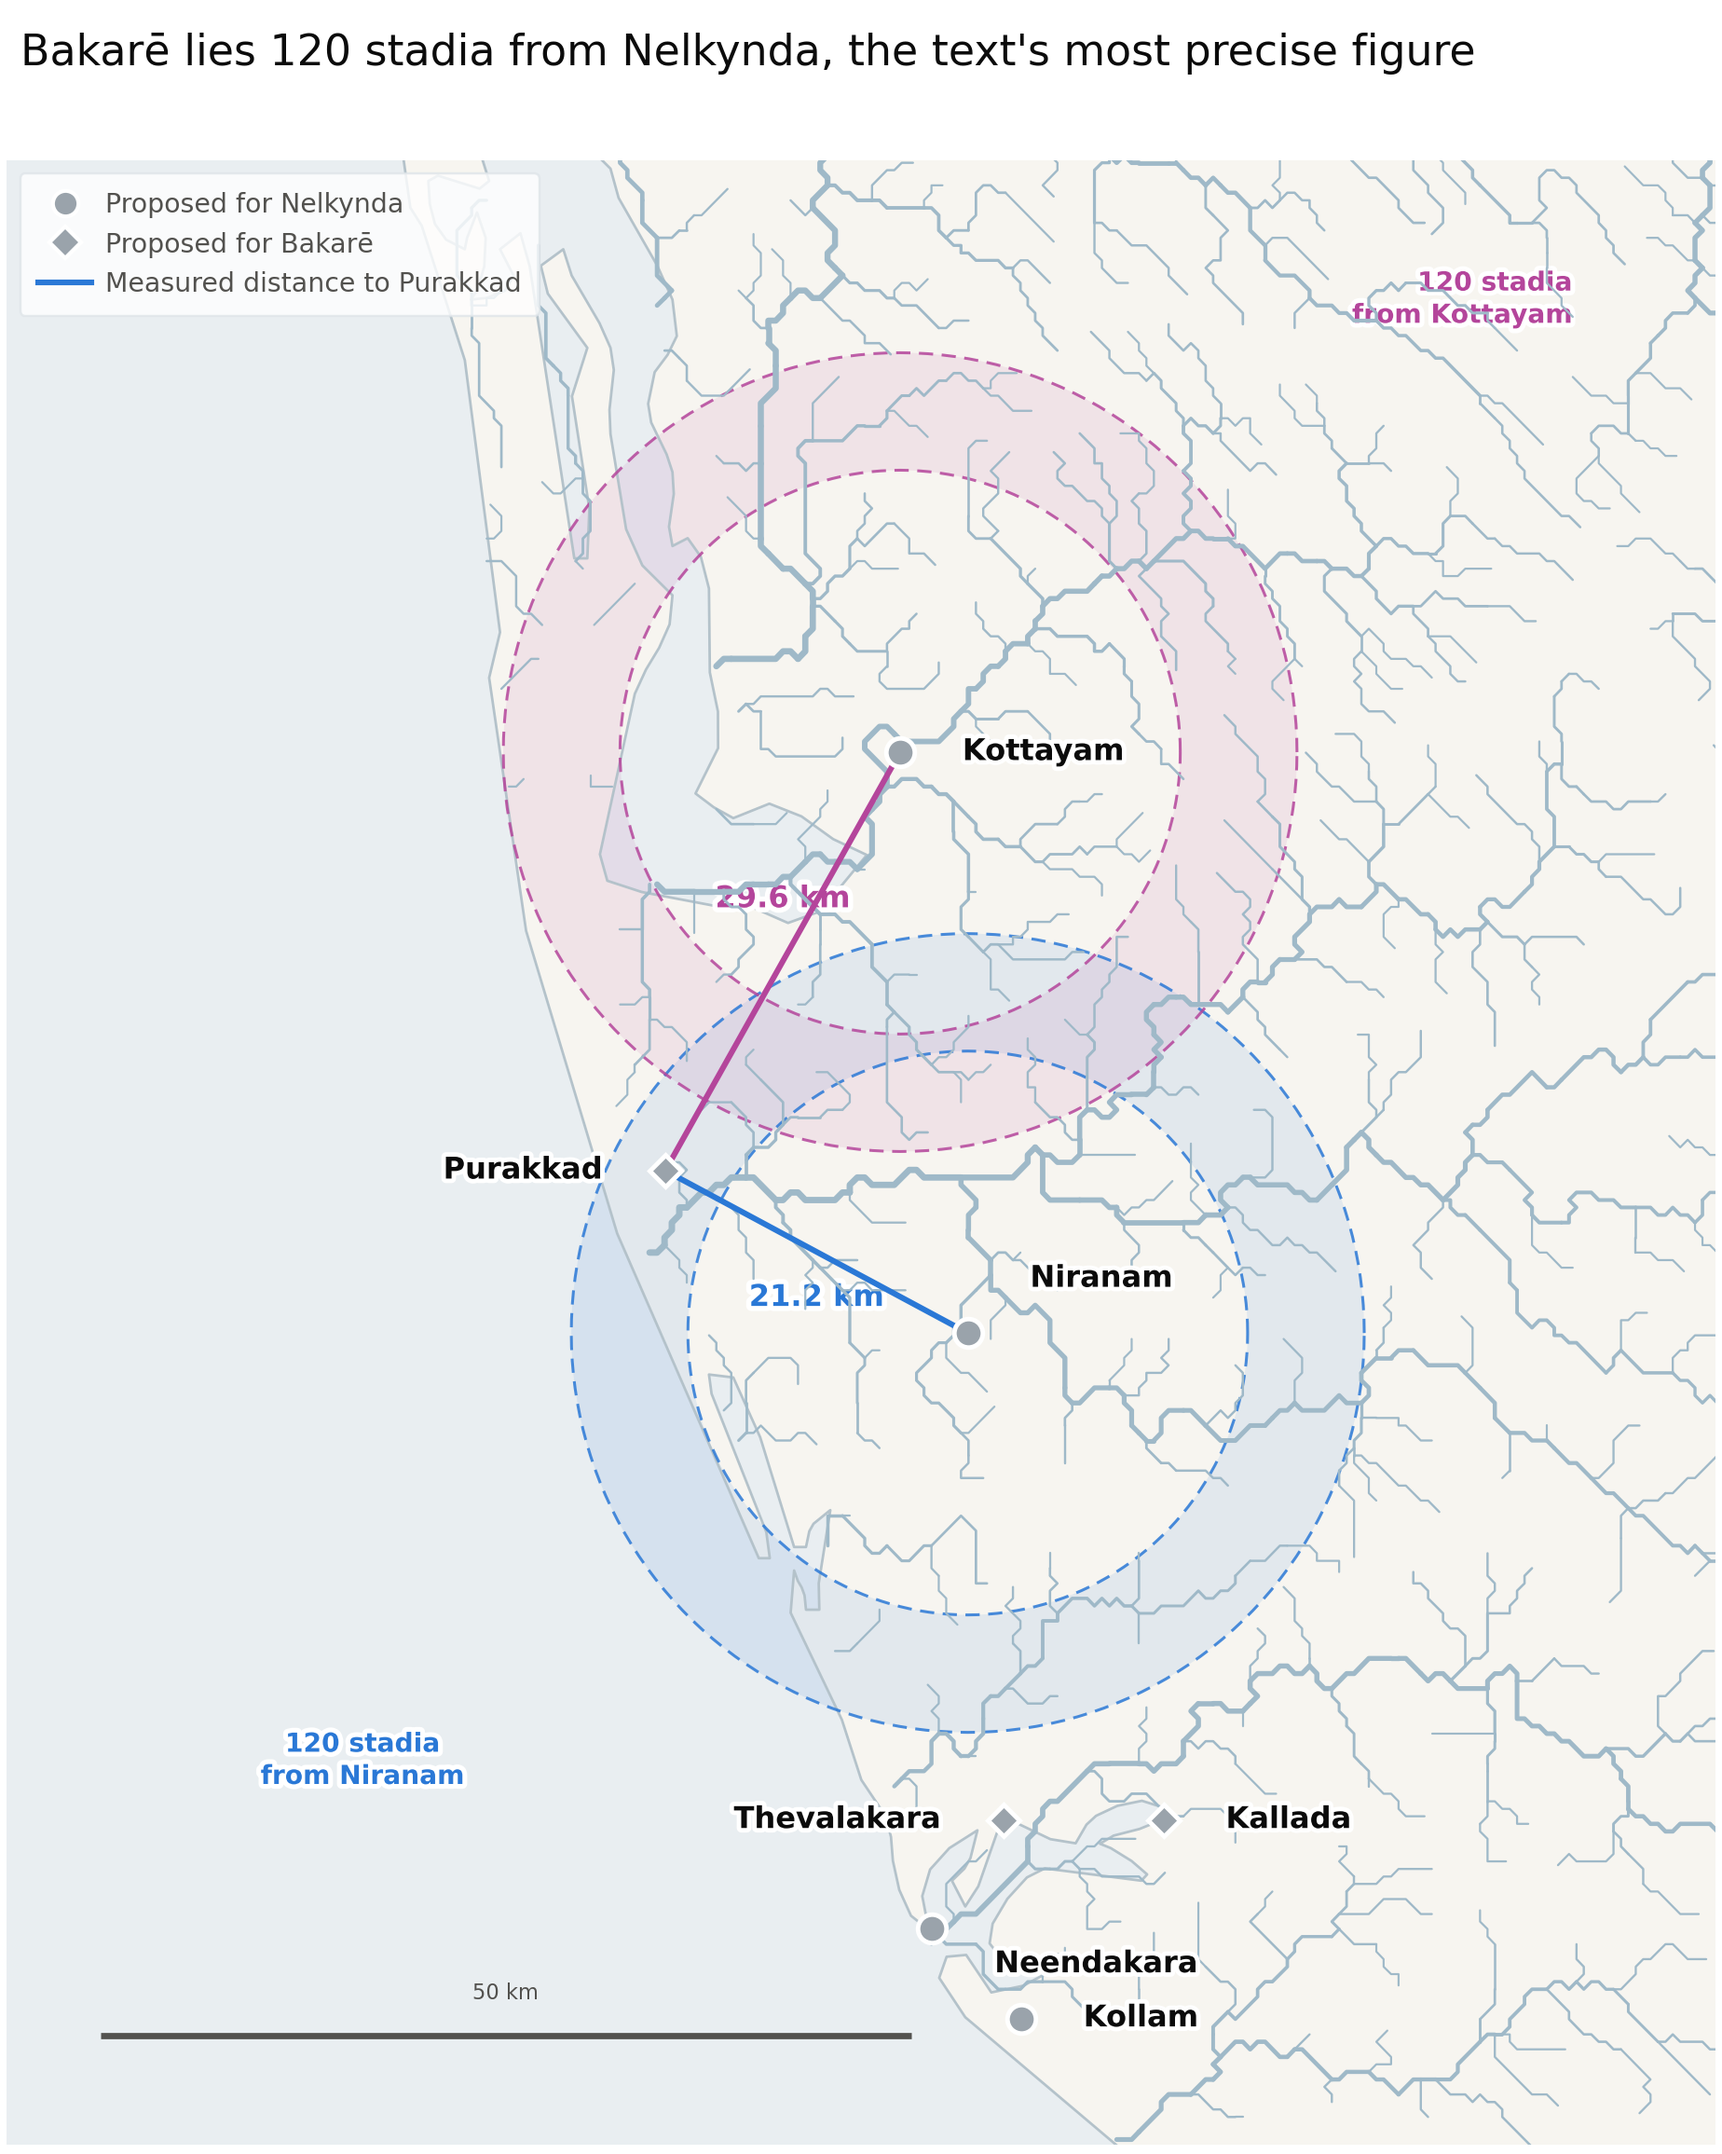
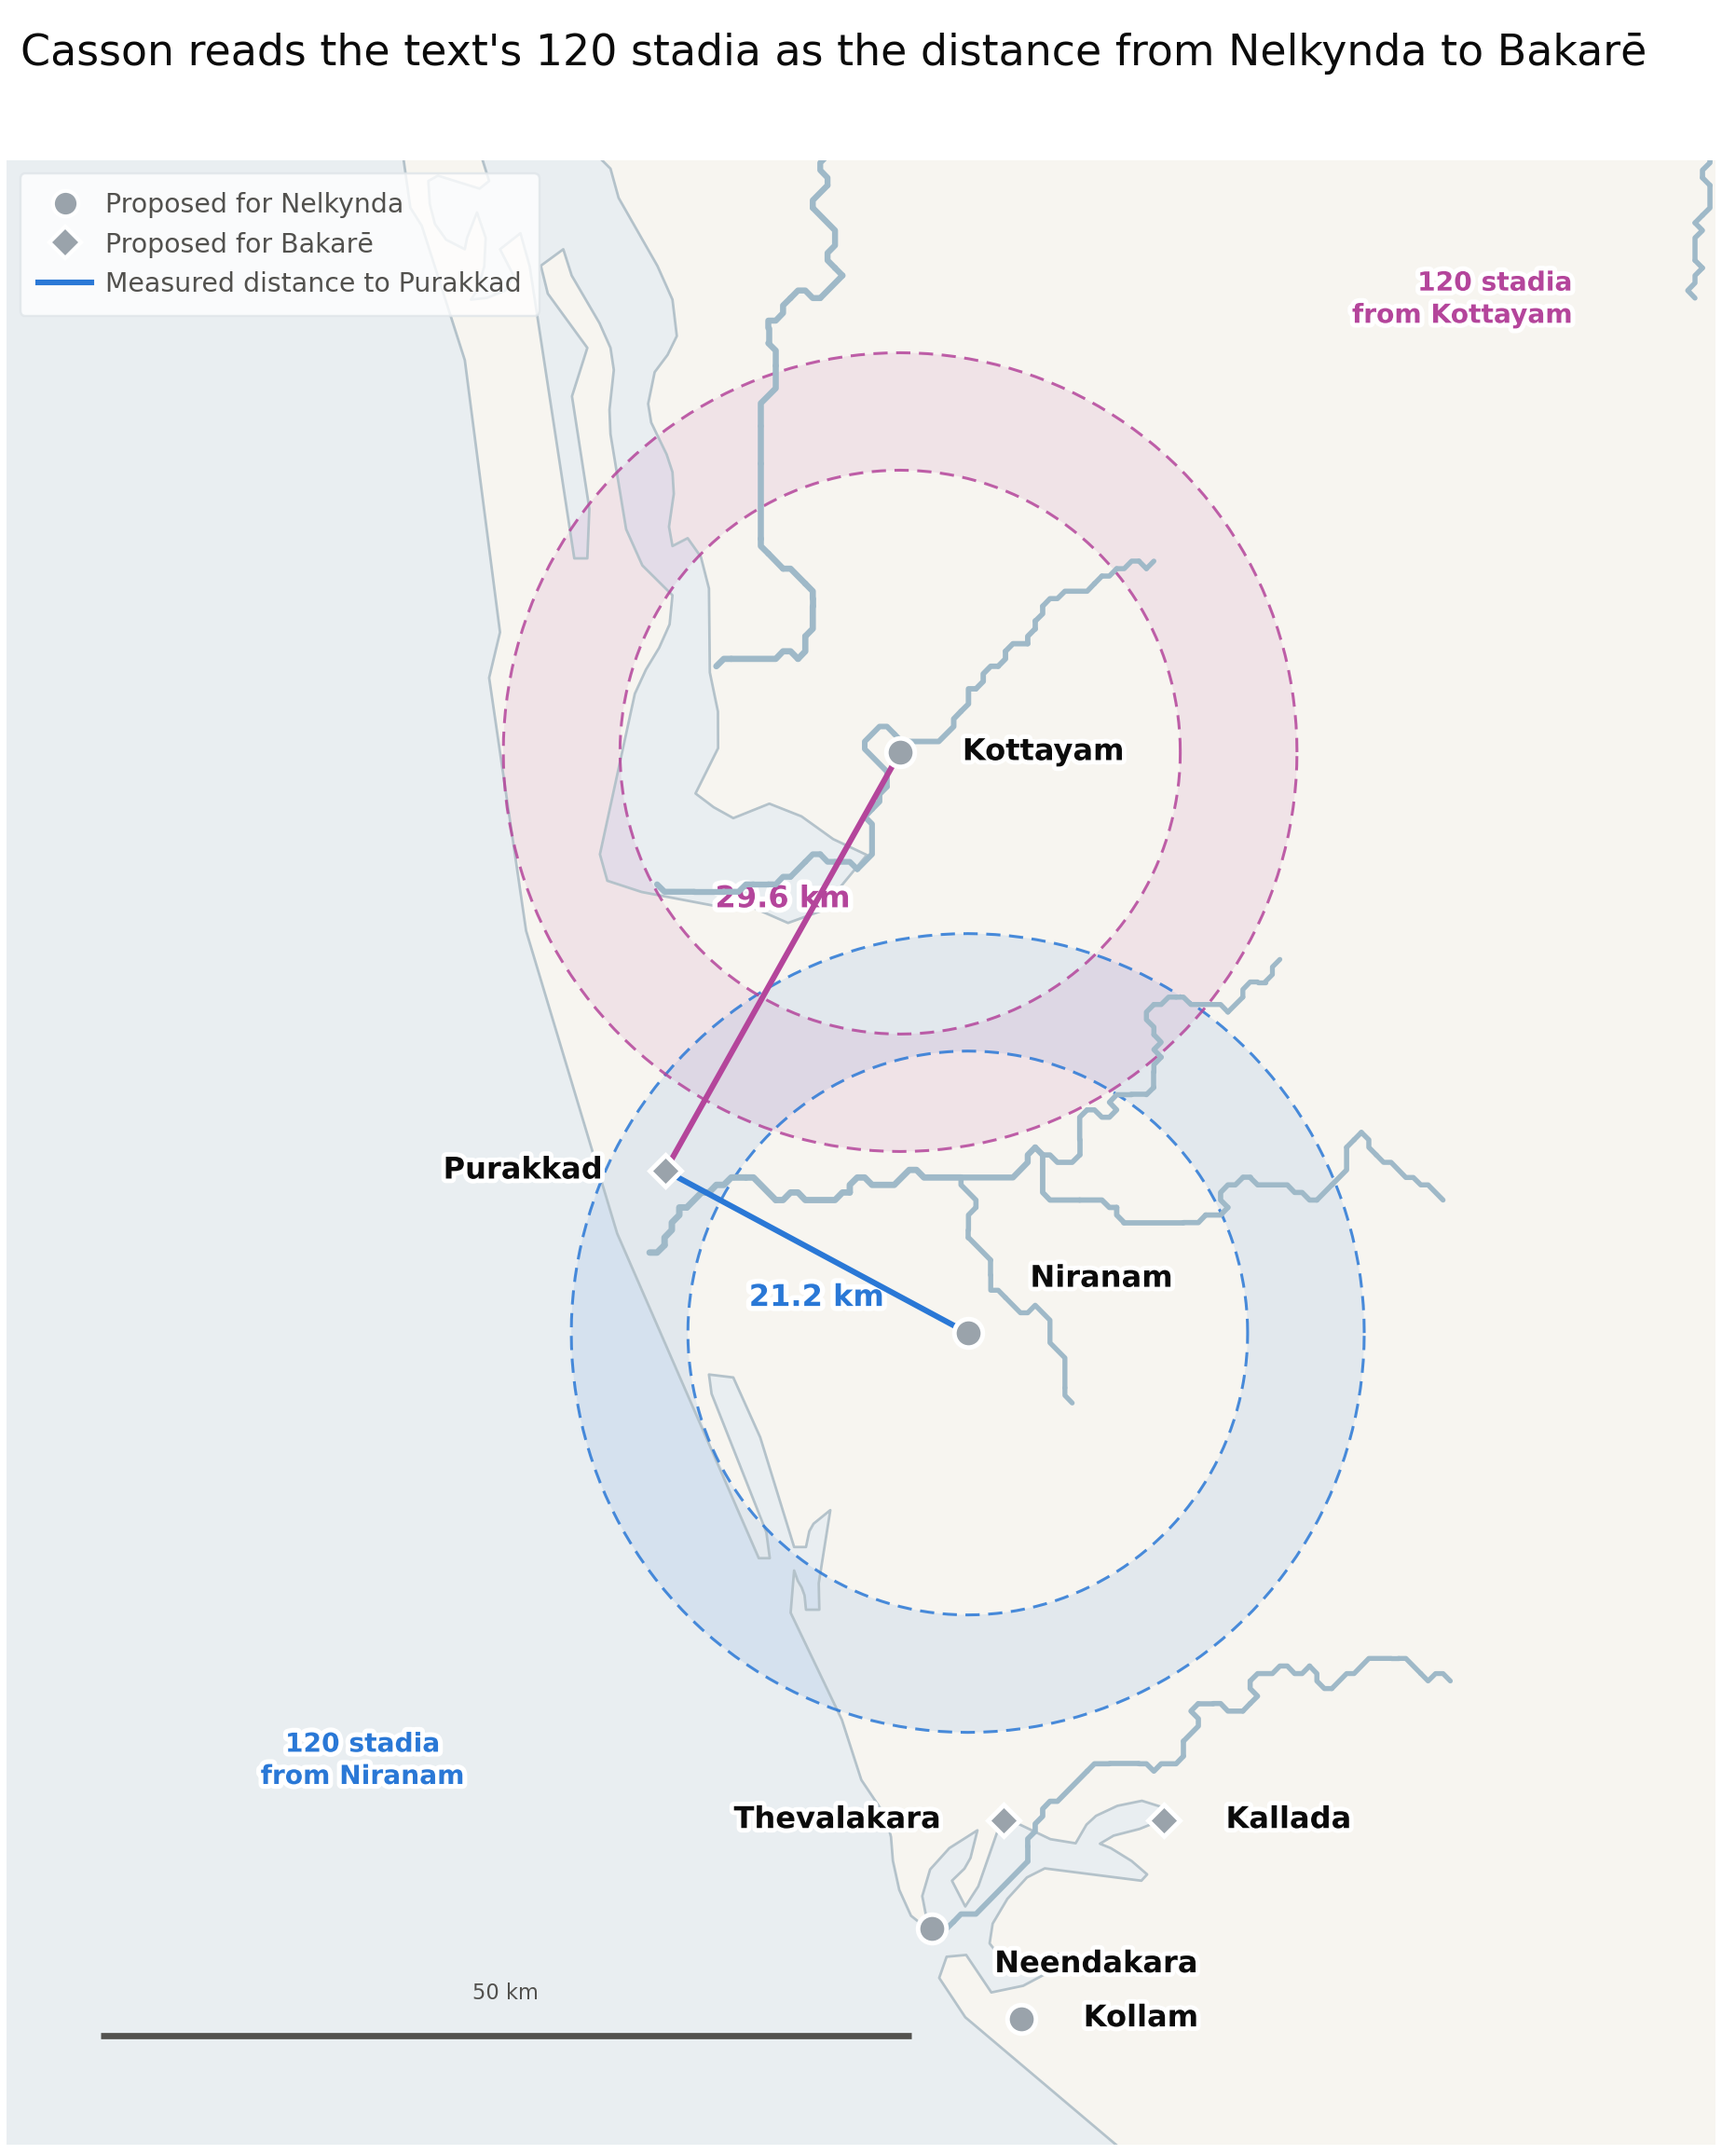
Actually apply the Nelkynda map retitle
The earlier replacement matched an escape sequence rather than the
literal character in the source, so the figure kept its old title while
the docs carried the correction.

diff --git a/src/make_slide_maps.py b/src/make_slide_maps.py
@@ -199,7 +199,8 @@ def nelkynda_bakare():
     is what this map tests; the text itself does not state it."""
     bbox = (76.02, 76.98, 8.82, 9.92)
     fig, ax = frame(bbox, 8.4,
-                    "Bakarē lies 120 stadia from Nelkynda, the text's most precise figure")
+                    "Casson reads the text's 120 stadia as the distance from Nelkynda to Bakarē",
+                    min_flow=28)
     for k, col in [("niranam", ARC), ("kottayam_kerala", "#b4459b")]:
         lo, la = xy(k)
         band(ax, la, lo, 120 * LO, 120 * HI, color=col, alpha=0.10)
